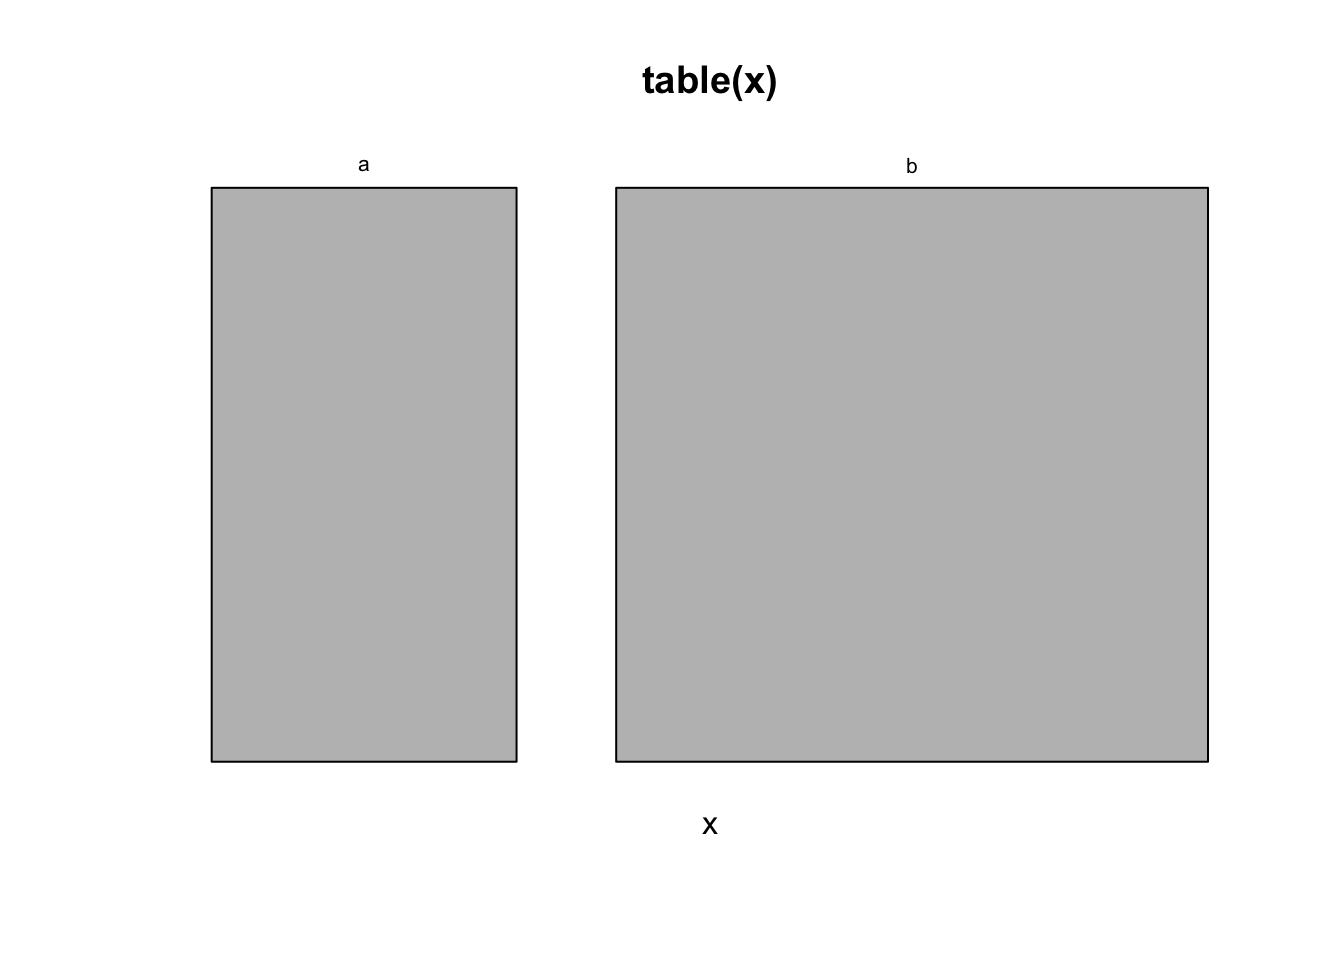
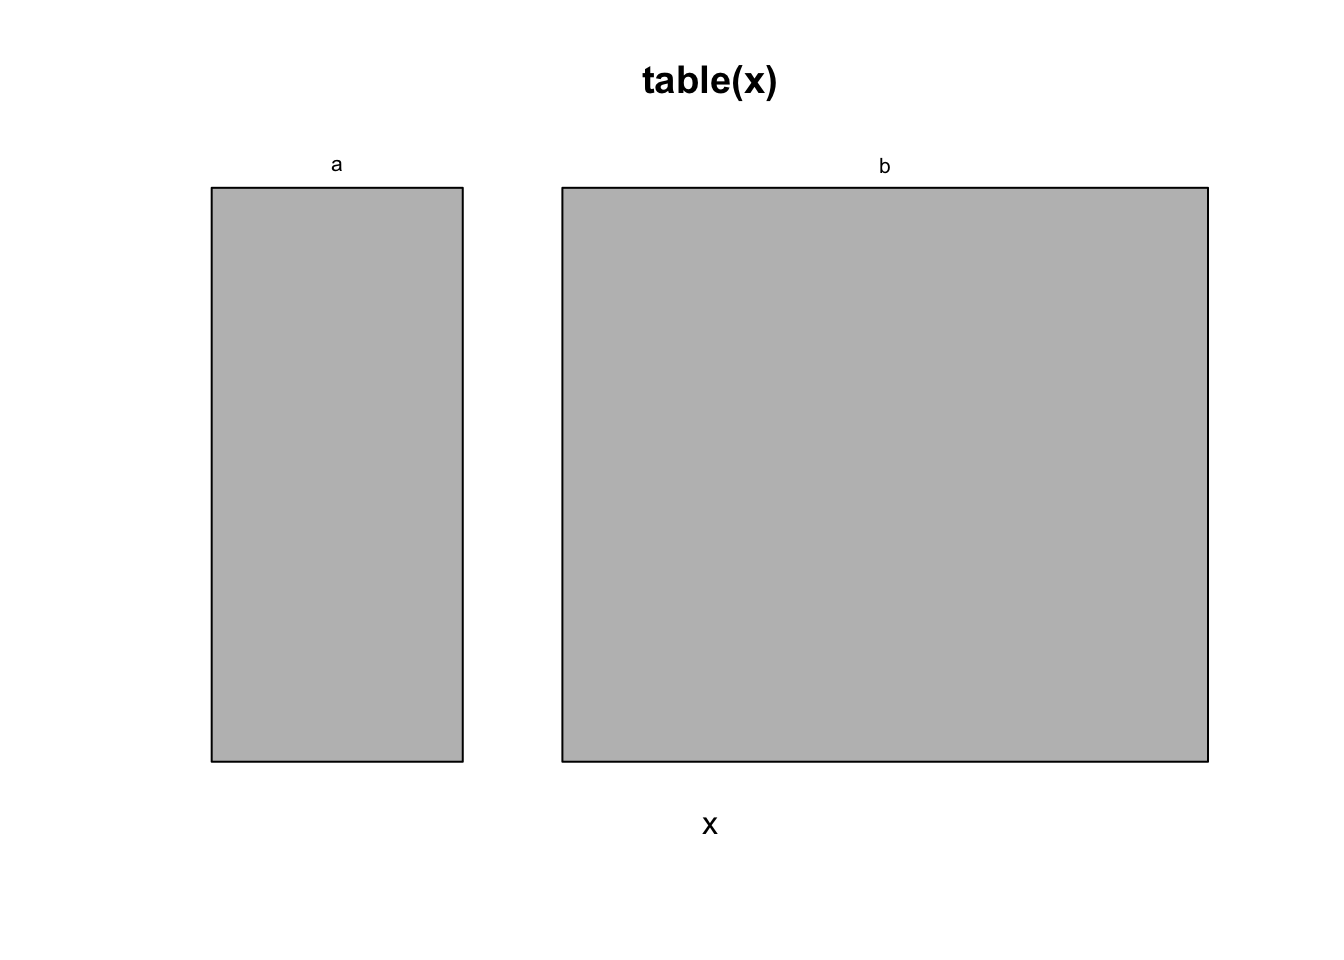
Added information about slide printing

Changed region(s): [[0.3438, 0.1875, 0.4688, 0.8125], [0.6562, 0.1562, 0.6875, 0.1875], [0.25, 0.1562, 0.2812, 0.1875]]

diff --git a/docs/articles/extending_dataMaid.html b/docs/articles/extending_dataMaid.html
@@ -392,7 +392,7 @@ meanSummary.integer &lt;-<span class="st"> </span><span class="cf">function</spa
 <p>and now we can see what happens when the function is called on supported - and non-supported - variables:</p>
 <div class="sourceCode"><pre class="sourceCode r"><code class="sourceCode r"><span class="co">#called on a numeric variable (supported)</span>
 <span class="kw">meanSummary</span>(<span class="kw">rnorm</span>(<span class="dv">100</span>))</code></pre></div>
-<pre><code>## Mean: -0.12</code></pre>
+<pre><code>## Mean: 0.13</code></pre>
 <div class="sourceCode"><pre class="sourceCode r"><code class="sourceCode r"><span class="co">#called on a character variable - produces error as there is</span>
 <span class="co">#no method for characters</span>
 <span class="kw">meanSummary</span>(letters)</code></pre></div>
@@ -487,7 +487,7 @@ x &lt;-<span class="st"> </span><span class="kw">sample</span>(<span class="kw">
 }</code></pre></div>
 <p>This function can now be called directly or used in <code><a href="../reference/makeDataReport.html">makeDataReport()</a></code>, as will presented in an example below. Depending on the <code>doEval</code> argument, either a text string with code or a plot is produced. We can for instance inspect the code for the plot produced in the above by calling <code>mosaicVisual()</code> on <code>x</code> with <code>doEval = FALSE</code>:</p>
 <div class="sourceCode"><pre class="sourceCode r"><code class="sourceCode r"><span class="kw">mosaicVisual</span>(x, <span class="st">"Variable x"</span>, <span class="dt">doEval =</span> <span class="ot">FALSE</span>)</code></pre></div>
-<pre><code>## [1] "mosaicplot(structure(c(34L, 66L), .Dim = 2L, .Dimnames = structure(list("              
+<pre><code>## [1] "mosaicplot(structure(c(28L, 72L), .Dim = 2L, .Dimnames = structure(list("              
 ## [2] "    v = c(\"a\", \"b\")), .Names = \"v\"), class = \"table\"), main = \"Variable x\", "
 ## [3] "    xlab = \"\")"</code></pre>
 <p>Even though <code>mosaicVisual()</code>, as written above, follows the style of a <code>visualFunction</code>, it is not yet truly one and therefore, it will not appear in an <code><a href="../reference/allVisualFunctions.html">allVisualFunctions()</a></code> call. In order to get this functionality, we need to change its object class. This can be done by writing</p>
@@ -884,7 +884,7 @@ $(document).ready(function () {
 <h1 class="hasAnchor">
 <a href="#header" class="anchor"></a>artData</h1>
 <h3 class="subtitle"><em>Autogenerated data summary from dataMaid</em></h3>
-<h4 class="date"><em>2018-02-09 14:33:06</em></h4>
+<h4 class="date"><em>2018-02-10 15:57:23</em></h4>
 
 </div>
 
@@ -1598,7 +1598,7 @@ $(document).ready(function () {
 <p>Report generation information:</p>
 <ul>
 <li><p>Created by Claus Thorn Ekstrøm.</p></li>
-<li><p>Report creation time: Fri Feb 09 2018 14:33:06</p></li>
+<li><p>Report creation time: Sat Feb 10 2018 15:57:23</p></li>
 <li><p>dataMaid v1.1.0 [Pkg: 2018-02-06 from local (<a href="mailto:ekstroem/dataMaid@NA">ekstroem/dataMaid@NA</a>)]</p></li>
 <li><p>R version 3.4.3 (2017-11-30).</p></li>
 <li><p>Platform: x86_64-apple-darwin15.6.0 (64-bit)(macOS High Sierra 10.13.2).</p></li>

diff --git a/docs/articles/dataMaid_artData.html b/docs/articles/dataMaid_artData.html
@@ -119,7 +119,7 @@ $(document).ready(function () {
 
 <h1 class="title toc-ignore">artData</h1>
 <h3 class="subtitle"><em>Autogenerated data summary from dataMaid</em></h3>
-<h4 class="date"><em>2018-02-09 14:33:06</em></h4>
+<h4 class="date"><em>2018-02-10 15:57:23</em></h4>
 
 </div>
 
@@ -842,7 +842,7 @@ $(document).ready(function () {
 <p>Report generation information:</p>
 <ul>
 <li><p>Created by Claus Thorn Ekstrøm.</p></li>
-<li><p>Report creation time: Fri Feb 09 2018 14:33:06</p></li>
+<li><p>Report creation time: Sat Feb 10 2018 15:57:23</p></li>
 <li><p>dataMaid v1.1.0 [Pkg: 2018-02-06 from local (<a href="mailto:ekstroem/dataMaid@NA">ekstroem/dataMaid@NA</a>)]</p></li>
 <li><p>R version 3.4.3 (2017-11-30).</p></li>
 <li><p>Platform: x86_64-apple-darwin15.6.0 (64-bit)(macOS High Sierra 10.13.2).</p></li>

diff --git a/docs/CSP2018/index.html b/docs/CSP2018/index.html
@@ -341,6 +341,10 @@ img {
 <li><p><a href="https://www.rstudio.com/products/rstudio/download/#download">R studio</a> is recommended</p></li>
 </ul>
 </div>
+<div id="downloading-the-slides" class="section level2">
+<h2>Downloading the slides</h2>
+<p>The slides can be found by following the menu above. To download a copy of the slides you can print/save the slides from each module to a pdf file. This should also make it possible to produce 4-ups or 6-ups for handouts by changing the layout when printing to pdf.</p>
+</div>
 </div>
 
 
